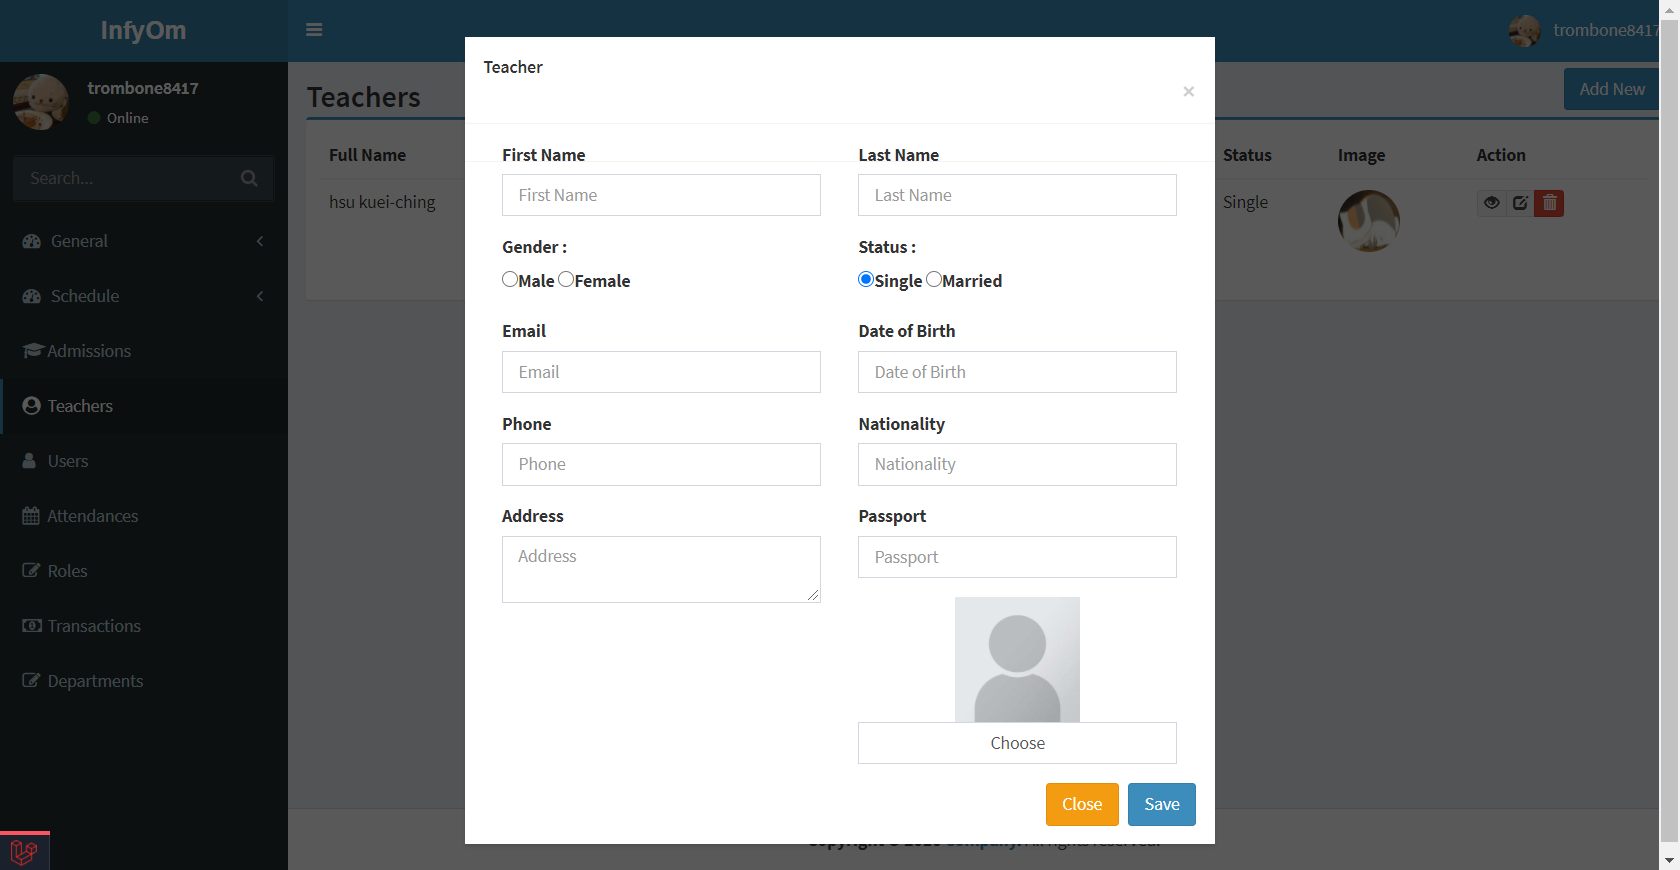
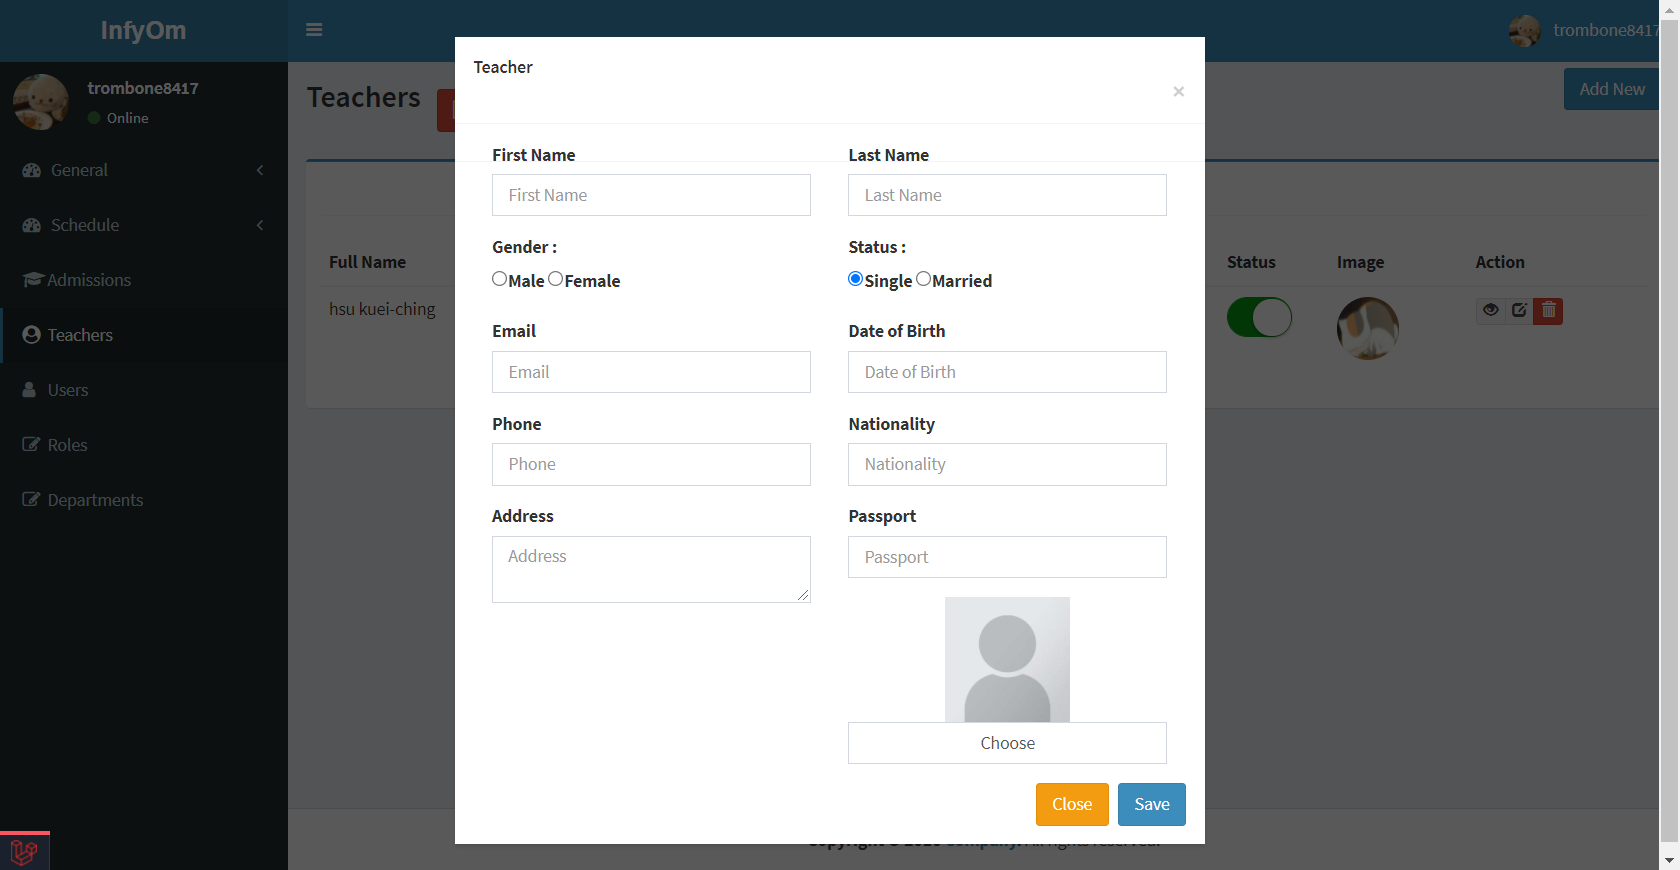
README.md

diff --git a/resources/views/layouts/frontLayout/sidebar.blade.php b/resources/views/layouts/frontLayout/sidebar.blade.php
@@ -23,7 +23,7 @@
         </div>
       </div>
       <!-- search form -->
-      <form action="#" method="get" class="sidebar-form">
+      {{-- <form action="#" method="get" class="sidebar-form">
         <div class="input-group">
           <input type="text" name="q" class="form-control" placeholder="Search...">
           <span class="input-group-btn">
@@ -32,7 +32,7 @@
                 </button>
               </span>
         </div>
-      </form>
+      </form> --}}
       <!-- /.search form -->
       <!-- sidebar menu: : style can be found in sidebar.less -->
       <ul class="sidebar-menu" data-widget="tree">
@@ -45,24 +45,24 @@
             </span>
           </a>
           <ul class="treeview-menu">
-            <li><a href="index.html"><i class="fa fa-circle-o"></i> Dashboard v1</a></li>
-            <li class="active"><a href="index2.html"><i class="fa fa-circle-o"></i> Dashboard v2</a></li>
+            <li><a href="/account"><i class="fa fa-circle-o"></i> Dashboard</a></li>
+            {{-- <li class="active"><a href="index2.html"><i class="fa fa-circle-o"></i> Dashboard v2</a></li> --}}
           </ul>
         </li>
         <li class="treeview">
           <a href="#">
             <i class="fa fa-files-o"></i>
             <span>Profile</span>
-            <span class="pull-right-container">
+            {{-- <span class="pull-right-container">
               <span class="label label-primary pull-right">4</span>
-            </span>
+            </span> --}}
           </a>
           <ul class="treeview-menu">
             <li><a href="{{url('/student-biodata')}}"><i class="fa fa-circle-o"></i> Biodata</a></li>
 
           </ul>
         </li>
-        <li>
+        {{-- <li>
           <a href="#">
             <i class="fa fa-th"></i> <span>Time Tables</span>
             <span class="pull-right-container">
@@ -84,8 +84,8 @@
             <li><a href="{{url('/student-lecture-activity')}}"><i class="fa fa-circle-o"></i> Semester Activity</a></li>
             <li><a href="{{url('/student-exam-marks')}}"><i class="fa fa-circle-o"></i> Exam Marks</a></li>
           </ul>
-        </li>
-        <li class="treeview">
+        </li> --}}
+        {{-- <li class="treeview">
           <a href="#">
             <i class="fa fa-laptop"></i>
             <span>UI Elements</span>
@@ -101,7 +101,7 @@
             <li><a href="pages/UI/timeline.html"><i class="fa fa-circle-o"></i> Timeline</a></li>
             <li><a href="pages/UI/modals.html"><i class="fa fa-circle-o"></i> Modals</a></li>
           </ul>
-        </li>
+        </li> --}}
       </ul>
     </section>
     <!-- /.sidebar -->

diff --git a/resources/views/layouts/menu.blade.php b/resources/views/layouts/menu.blade.php
@@ -26,9 +26,9 @@
             <a href="{{ route('batches.index') }}"><i class="fa fa-edit"></i><span>Batches</span></a>
         </li>
 
-        <li class="{{ Request::is('shifts*') ? 'active' : '' }}">
+        {{-- <li class="{{ Request::is('shifts*') ? 'active' : '' }}">
             <a href="{{ route('shifts.index') }}"><i class="fa fa-edit"></i><span>Shifts</span></a>
-        </li>
+        </li> --}}
 
         <li class="{{ Request::is('courses*') ? 'active' : '' }}">
             <a href="{{ route('courses.index') }}"><i class="fa fa-edit"></i><span>Courses</span></a>
@@ -38,9 +38,9 @@
             <a href="{{ route('faculties.index') }}"><i class="fa fa-edit"></i><span>Faculties</span></a>
         </li>
 
-        <li class="{{ Request::is('times*') ? 'active' : '' }}">
+        {{-- <li class="{{ Request::is('times*') ? 'active' : '' }}">
             <a href="{{ route('times.index') }}"><i class="fa fa-edit"></i><span>Times</span></a>
-        </li>
+        </li> --}}
 
         <li class="{{ Request::is('academics*') ? 'active' : '' }}">
             <a href="{{ route('academics.index') }}"><i class="fa fa-edit"></i><span>Academics</span></a>
@@ -88,9 +88,9 @@
             <a href="{{ route('users.index') }}"><i class="fa fa-user"></i><span>Users</span></a>
     </li>
 {{-- @if(Auth::user()->role < 2) --}}
-<li class="{{ Request::is('attendances*') ? 'active' : '' }}">
+{{-- <li class="{{ Request::is('attendances*') ? 'active' : '' }}">
     <a href="{{ route('attendances.index') }}"><i class="fa fa-calendar"></i><span>Attendances</span></a>
-    </li>
+    </li> --}}
 
 
 
@@ -99,9 +99,9 @@
     </li>
 
 
-    <li class="{{ Request::is('transactions*') ? 'active' : '' }}">
+    {{-- <li class="{{ Request::is('transactions*') ? 'active' : '' }}">
         <a href="{{ route('transactions.index') }}"><i class="fa fa-money"></i><span>Transactions</span></a>
-    </li>
+    </li> --}}
 {{-- @endif --}}
 
 

diff --git a/resources/views/layouts/frontLayout/app.blade.php b/resources/views/layouts/frontLayout/app.blade.php
@@ -59,7 +59,7 @@
       <div class="navbar-custom-menu">
         <ul class="nav navbar-nav">
           <!-- Messages: style can be found in dropdown.less-->
-          <li class="dropdown messages-menu">
+          {{-- <li class="dropdown messages-menu">
             <a href="#" class="dropdown-toggle" data-toggle="dropdown">
               <i class="fa fa-envelope-o"></i>
               <span class="label label-success">4</span>
@@ -254,7 +254,7 @@
                 <a href="#">View all tasks</a>
               </li>
             </ul>
-          </li>
+          </li> --}}
           <!-- User Account: style can be found in dropdown.less -->
           <li class="dropdown user user-menu">
             <a href="#" class="dropdown-toggle" data-toggle="dropdown">
@@ -292,15 +292,15 @@
                   <a href="#" class="btn btn-default btn-flat">Profile</a>
                 </div>
                 <div class="pull-right">
-                  <a href="/logout" class="btn btn-default btn-flat">Sign out</a>
+                  <a href="/" class="btn btn-default btn-flat">Sign out</a>
                 </div>
               </li>
             </ul>
           </li>
           <!-- Control Sidebar Toggle Button -->
-          <li>
+          {{-- <li>
             <a href="#" data-toggle="control-sidebar"><i class="fa fa-gears"></i></a>
-          </li>
+          </li> --}}
         </ul>
       </div>
 

diff --git a/resources/views/teachers/index.blade.php b/resources/views/teachers/index.blade.php
@@ -44,7 +44,7 @@
         </ul>
     </div>
     {{-- Word --}}
-    <div class="btn btn-group">
+    {{-- <div class="btn btn-group">
         <button type="button" class="btn btn-primary"><i class="fa fa-file-word-o" style="color: white"></i>&nbsp;&nbsp;WORD</button>
         <button type="button" class="btn btn-primary dropdown-toggle" data-toggle="dropdown" aria-haspopup="true" aria-expanded="false">
             <span class="caret"></span>
@@ -59,7 +59,7 @@
                 <a href="" class="btn btn">Import WORD</a>
             </li>
         </ul>
-    </div>
+    </div> --}}
     <h1 class="pull-right">
         <a data-toggle="modal" data-target="#teacher-add-modal" class="btn btn-primary pull-right" style="margin-top: -10px;margin-bottom: 5px">Add New</a>
     </h1>

diff --git a/resources/views/layouts/sidebar.blade.php b/resources/views/layouts/sidebar.blade.php
@@ -21,7 +21,7 @@
         </div>
 
         <!-- search form (Optional) -->
-        <form action="#" method="get" class="sidebar-form">
+        {{-- <form action="#" method="get" class="sidebar-form">
             <div class="input-group">
                 <input type="text" name="q" class="form-control" placeholder="Search..."/>
           <span class="input-group-btn">
@@ -29,7 +29,7 @@
             </button>
           </span>
             </div>
-        </form>
+        </form> --}}
         <!-- Sidebar Menu -->
 
         <ul class="sidebar-menu" data-widget="tree">

diff --git a/resources/views/students/account.blade.php b/resources/views/students/account.blade.php
@@ -1,4 +1,7 @@
 @extends('layouts.frontLayout.app')
 @section('content')
-<h1>hello world</h1>
+<div class="container">
+
+    <h1>歡迎來到學生資訊系統</h1>
+</div>
 @endsection

diff --git a/README.md b/README.md
@@ -14,15 +14,20 @@ laravel 校園資訊系統
 `php artisan infyom:scaffold ClassSchedule --fromTable --tableName=class_schedules`
 ## 作品
 ##### 首頁
-![alt 登入](md-img/index.png)
+![alt](md-img/teacherIndex.png)
+![alt](md-img/studentIndex.png)
 ##### 登入
-![alt 登入](md-img/login.png)
+![alt](md-img/teacherLogin.png)
+![alt](md-img/studentLogin.png)
 ##### 教師列表
-![alt 登入](md-img/teacherIndex.png)
+![alt](md-img/teacherList.png)
 ##### 教師新增
-![alt 登入](md-img/teacherCreate.png)
-##### 學生編輯
-![alt 登入](md-img/admissionEdit.png)
+![alt](md-img/teacherCreate.png)
+
+##### 教師Excel
+![alt](md-img/teacherExcel.png)
+##### 學生資料
+![alt](md-img/studentDetail.png)
 ## 資料來源
 Youtube：Laravel Student Information System (Programming with Singhateh)
 
